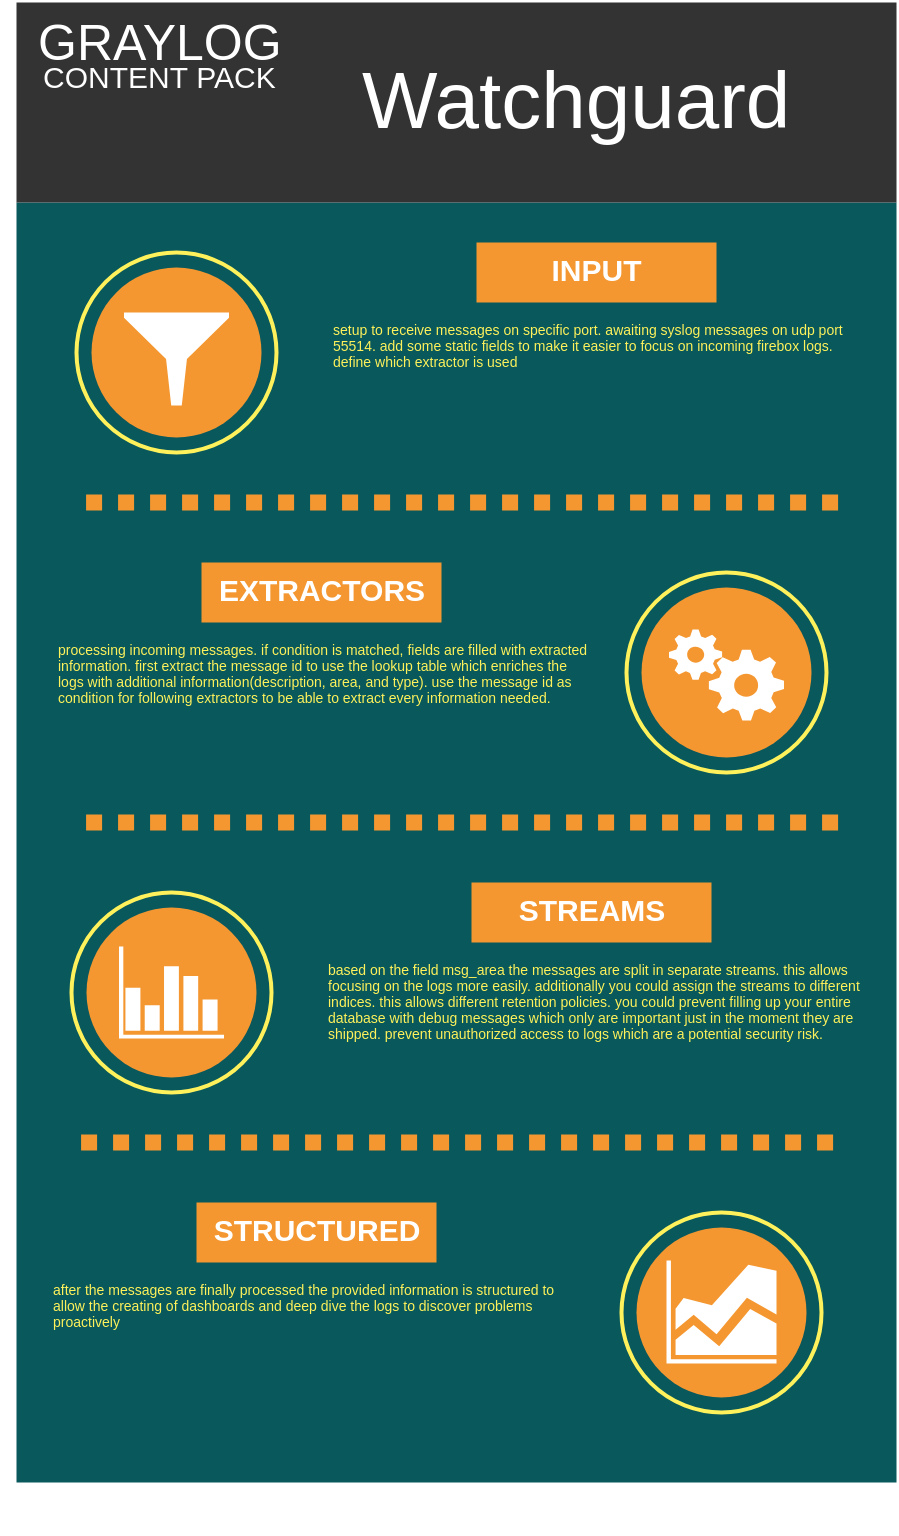
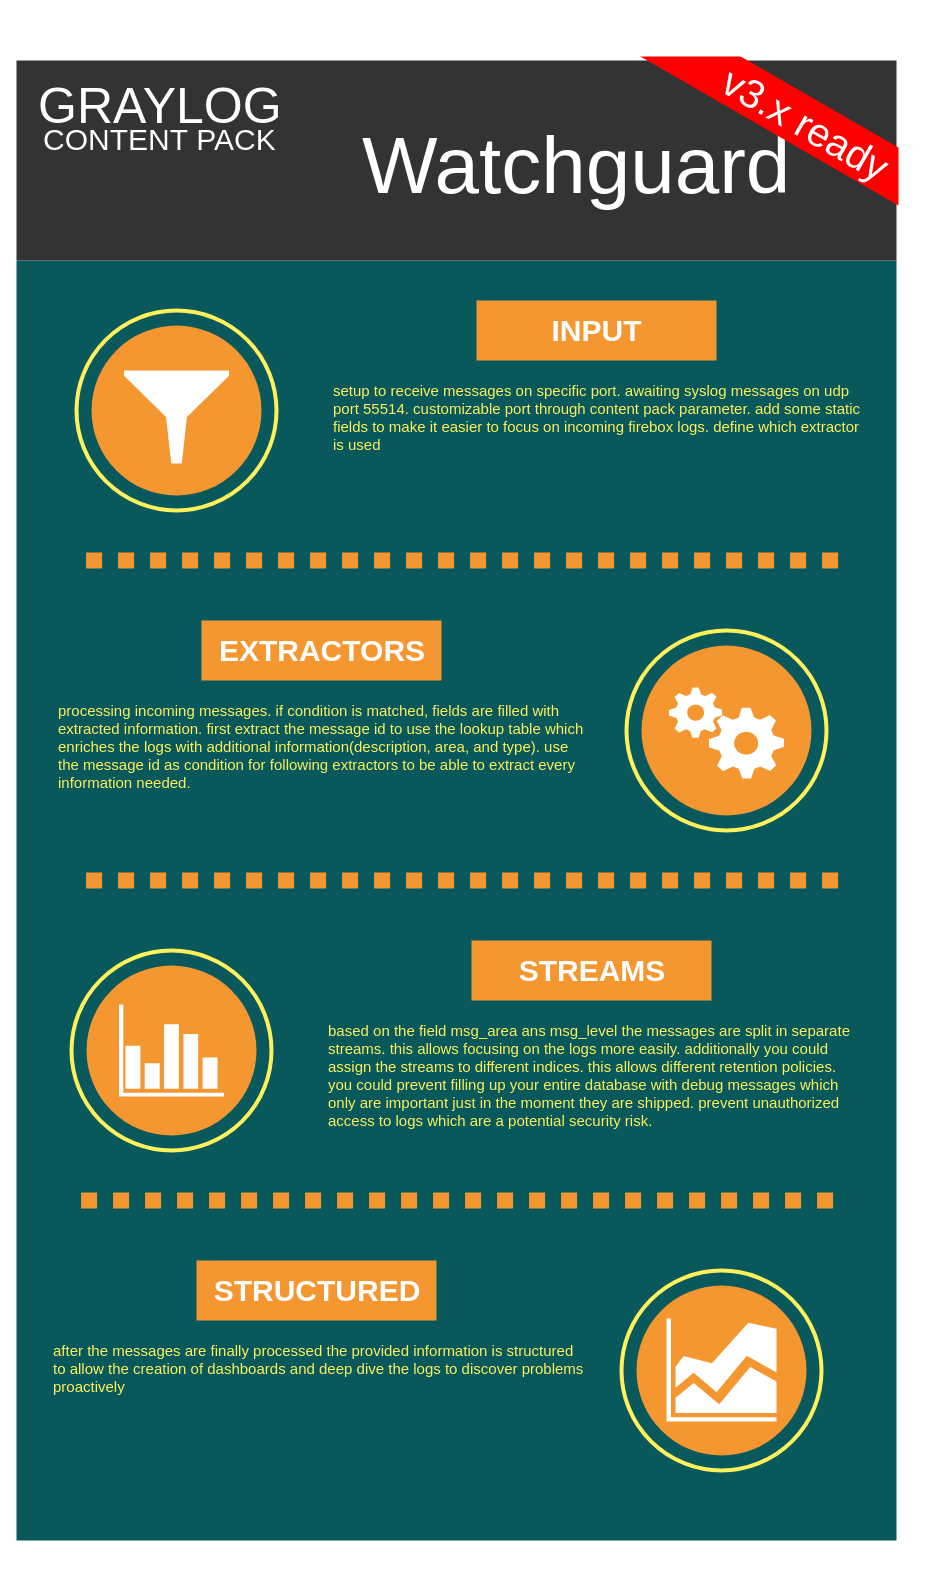
Update readme and image

diff --git a/README.md b/README.md
@@ -1,4 +1,4 @@
-![graylog-cp-watchguard_2](https://user-images.githubusercontent.com/1869080/43983109-2e9316ca-9cf9-11e8-86e8-2f7a818f03dd.png)
+![graylog-cp-watchguard_2](https://user-images.githubusercontent.com/1869080/61405975-3dd23000-a8db-11e9-9c37-a7cb27897609.png)
 
 
 # Graylog Content Pack for Watchguard
@@ -30,19 +30,13 @@ This file is a list similar to the [Fireware log catalog](https://www.watchguard
 
    -IP-Address: <graylog host>
 
-   -Port: 55514
+   -Port: 55514(content pack default port)
 
 
 ### Import Content Pack
 
-Because you have to import the content in order the content pack consists following files:
-
-1. content_pack_1_DataAdapter.json
-2. content_pack_2_LookupTables.json
-3. content_pack_3_Input.json
-4. content_pack_4_Dashboard.json
-
-please always apply in this order.
+You could import the complete content in one File. Just Upload [content-pack-graylog-cp-watchguard.json](content-pack-graylog-cp-watchguard.json) in System/Content Pack Section of Graylog and install.
+With the parameters for input port and lookup table file path you could customize the content pack to fit your needs. 
 
 *if you run into trouble while importing or updating it may be helpful to remove every component an start fresh.*
 
@@ -89,8 +83,6 @@ How to:
 - create pull request
 
 Thanks:-)
-
-Example:
 
 
 
